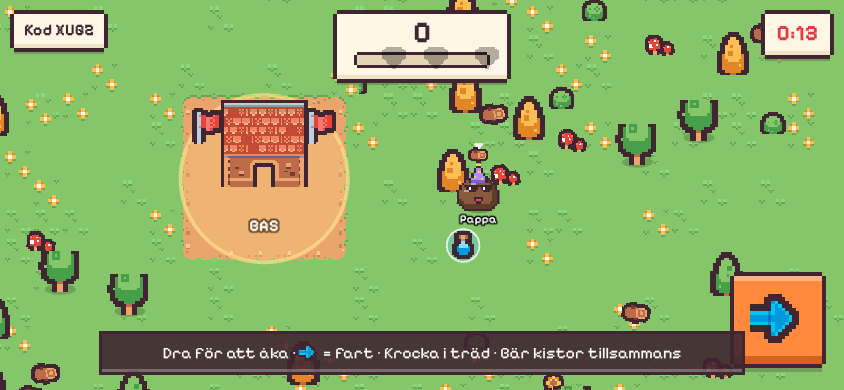
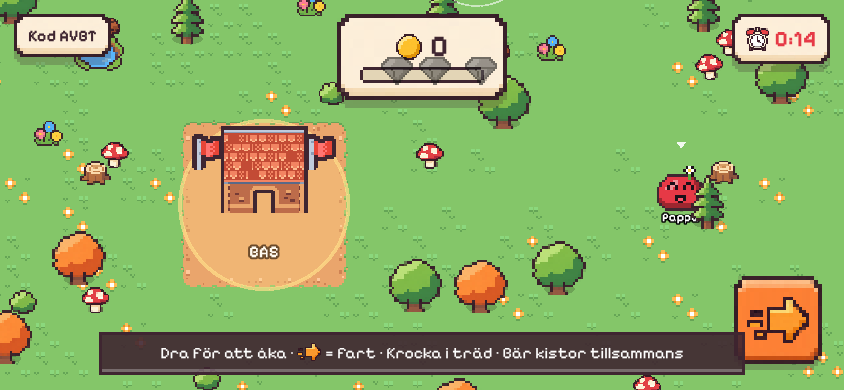
feat(blobz): ChatGPT map props (trees, rocks, boulders, ponds, decor)
Claude-Session: https://claude.ai/code/session_019PjhQycgBwz4yCtCSZuQS4

diff --git a/blobz/src/game.ts b/blobz/src/game.ts
@@ -18,10 +18,12 @@ export interface Session {
 
 const T = 32; // rendered tile size (16px tiles at 2x)
 const ITEM_ICON: Record<ItemKind, string> = { wood: 'ic-log', shroom: 'ic-mushroom', coin: 'ic-coin' };
-const TREE_FRAMES = [16, 28, 27];
+// Obstacles (sim kinds 0-4) and decor from ChatGPT order 30 (public/art/props)
+const OBSTACLE_ART: [string, number][] = [['pr-tree-green', 2.8], ['pr-tree-orange', 2.8], ['pr-tree-pine', 2.8], ['pr-rock', 2.6], ['pr-boulder', 2.4]];
+const PROPS = ['tree-green', 'tree-orange', 'tree-pine', 'rock', 'boulder', 'bush', 'flowers', 'stump', 'pond', 'fence', 'sign', 'plate', 'plate-down', 'gate', 'gate-open', 'gate-post'];
 const BLOB_SCALE = 2.9; // 18x24 pixel blob grid
 // decorations from Tiny Farm (sheet 'farm') and Tiny Town ('town')
-const DECOR: [string, number][] = [['farm', 39], ['farm', 83], ['farm', 78], ['town', 5], ['town', 2], ['farm', 39]];
+const DECOR: [string, number][] = [['pr-bush', 2], ['pr-flowers', 2], ['pr-stump', 2], ['pr-flowers', 2], ['pr-bush', 2]];
 
 interface BlobGfx {
   shadow: Phaser.GameObjects.Ellipse;
@@ -83,6 +85,7 @@ export class GameScene extends Phaser.Scene {
 
   preload() {
     for (const n of ['log', 'mushroom', 'coin', 'chest', 'boot', 'magnet']) this.load.image('ic-' + n, `art/icons/${n}.png`);
+    for (const n of PROPS) this.load.image('pr-' + n, `art/props/${n}.png`);
     const sheet = (key: string, dir: string) => this.load.spritesheet(key, `assets/${dir}/tilemap_packed.png`, { frameWidth: 16, frameHeight: 16 });
     sheet('town', 'kenney-tiny-town');
     sheet('dungeon', 'kenney-tiny-dungeon');
@@ -137,16 +140,23 @@ export class GameScene extends Phaser.Scene {
     // trees (same layout as the host sim, from the shared seed)
     for (const t of makeTrees(this.s.seed)) {
       this.add.ellipse(t.x, t.y + 6, 34, 12, 0x000000, 0.18).setDepth(-500);
-      this.add.image(t.x, t.y + 8, this.tex('town', TREE_FRAMES[t.kind])).setScale(3).setOrigin(0.5, 0.85).setDepth(t.y);
+      const [key, sc] = OBSTACLE_ART[t.kind] ?? OBSTACLE_ART[0];
+      this.add.image(t.x, t.y + 10, key).setScale(sc).setOrigin(0.5, t.kind < 3 ? 0.95 : 0.8).setDepth(t.y);
     }
 
     // flat decorations (no collision), from the same seed on every phone
     const trees = makeTrees(this.s.seed);
     for (let i = 0; i < 46; i++) {
       const x = 30 + r() * (WORLD_W - 60), y = 30 + r() * (WORLD_H - 60);
-      const [key, f] = DECOR[Math.floor(r() * DECOR.length)];
-      if (Math.hypot(x - BASE.x, y - BASE.y) < BASE.r + 30 || trees.some((t) => Math.hypot(t.x - x, t.y - y) < 40)) continue;
-      this.add.image(x, y, this.tex(key, f)).setScale(2).setDepth(-600);
+      const [key, sc] = DECOR[Math.floor(r() * DECOR.length)];
+      if (Math.hypot(x - BASE.x, y - BASE.y) < BASE.r + 30 || trees.some((t) => Math.hypot(t.x - x, t.y - y) < 46)) continue;
+      this.add.image(x, y, key).setScale(sc).setDepth(-600);
+    }
+
+    for (let i = 0, placed = 0; i < 40 && placed < 2; i++) {
+      const x = 120 + r() * (WORLD_W - 240), y = 120 + r() * (WORLD_H - 240);
+      if (Math.hypot(x - BASE.x, y - BASE.y) < BASE.r + 120 || trees.some((t) => Math.hypot(t.x - x, t.y - y) < 80)) continue;
+      this.add.image(x, y, 'pr-pond').setScale(2.4).setDepth(-650); placed++;
     }
 
     this.trailG = this.add.graphics().setDepth(-400);

diff --git a/blobz/src/sim.ts b/blobz/src/sim.ts
@@ -16,6 +16,9 @@ const BOOST_SPEED = 340;
 const DASH_IMPULSE = 360;
 const DASH_COOLDOWN = 1.1;
 const TREE_R = 15;
+/** Obstacle kinds: 0-2 trees (green, orange, pine) drop wood when bumped; 3 rock; 4 boulder. */
+export const OBSTACLE_R = [15, 15, 12, 12, 24];
+const isTree = (kind: number) => kind < 3;
 const GEM_R = 22;
 const GEM_GRAB_R = 62;
 const PICKUP_R = 26;
@@ -90,7 +93,8 @@ export function makeTrees(seed: number): Tree[] {
     const y = 70 + r() * (WORLD_H - 130);
     if (nearBase(x, y, 90)) continue;
     if (trees.some((t) => Math.hypot(t.x - x, t.y - y) < 70)) continue;
-    trees.push({ x, y, kind: Math.floor(r() * 3), cd: 0 });
+    const roll = r();
+    trees.push({ x, y, kind: roll < 0.78 ? Math.floor(r() * 3) : roll < 0.9 ? 3 : 4, cd: 0 });
   }
   return trees;
 }
@@ -190,14 +194,14 @@ export function step(s: State, inputs: Map<string, Input>, dt: number) {
     for (const p of s.players) {
       const dx = p.x - t.x, dy = p.y - t.y;
       const d = Math.hypot(dx, dy);
-      const min = BLOB_R + TREE_R;
+      const min = BLOB_R + (OBSTACLE_R[t.kind] ?? TREE_R);
       if (d < min && d > 0.001) {
         const nx = dx / d, ny = dy / d;
         const vn = p.vx * nx + p.vy * ny;
         p.x = t.x + nx * min; p.y = t.y + ny * min;
         if (vn < 0) {
           p.vx -= 1.6 * vn * nx; p.vy -= 1.6 * vn * ny;
-          if (-vn > 170 && t.cd <= 0) {
+          if (-vn > 170 && t.cd <= 0 && isTree(t.kind)) {
             t.cd = 3;
             const a = Math.atan2(ny, nx) + (Math.random() - 0.5) * 2;
             spawnItem(s, { x: t.x + Math.cos(a) * 42, y: t.y + Math.sin(a) * 42 }, 'wood');

diff --git a/blobz/scripts/slice_sheet.py b/blobz/scripts/slice_sheet.py
@@ -6,6 +6,7 @@ usage: slice_sheet.py SHEET OUT_DIR name1 name2 ... [--native] [--grid=CxR] [--p
             thickness) so it can be upscaled crisply with image-rendering: pixelated.
   --grid=CxR  the sheet is an even C x R grid: one sprite per cell (keeps multi-part icons whole).
   --px=N    size of one art pixel in the sheet (overrides the per-sprite estimate).
+  --merge=N merge objects whose boxes are closer than N px (multi-part objects like an open gate).
 Objects are found as connected areas of non-transparent pixels (8-neighbour); tiny specks are dropped.
 """
 import sys
@@ -75,7 +76,20 @@ def main():
                 if bb: boxes.append((cell[0] + bb[0], cell[1] + bb[1], cell[0] + bb[2], cell[1] + bb[3]))
     else:
         alpha = im.getchannel('A').tobytes()
-        boxes = reading_order(components(alpha, w, h))
+        boxes = components(alpha, w, h, min_area=150)
+        gap = int(opts.get('merge', 0))
+        merged = True
+        while gap and merged:
+            merged = False
+            for i in range(len(boxes)):
+                for j in range(i + 1, len(boxes)):
+                    a, b = boxes[i], boxes[j]
+                    dx = max(0, max(a[0], b[0]) - min(a[2], b[2])); dy = max(0, max(a[1], b[1]) - min(a[3], b[3]))
+                    if dx <= gap and dy <= gap:
+                        boxes[i] = (min(a[0], b[0]), min(a[1], b[1]), max(a[2], b[2]), max(a[3], b[3]))
+                        del boxes[j]; merged = True; break
+                if merged: break
+        boxes = reading_order(boxes)
     print(f'found {len(boxes)} objects, {len(names)} names')
     for i, b in enumerate(boxes):
         name = names[i] if i < len(names) else f'extra-{i + 1}'

diff --git a/blobz/public/assets/LICENSES.md b/blobz/public/assets/LICENSES.md
@@ -21,6 +21,7 @@ UI icons (diamonds, dash arrow, pixel letters) are cut from these packs; no emoj
 | `art/victory.png` | Generated with ChatGPT image generation, supplied by Stefan | End screen background |
 | `art/ui/*.png` | ChatGPT order 10 (UI kit), sliced with `scripts/slice_sheet.py --native`; source sheet `docs/art-src-ui-kit.png` | Buttons, panels, tabs, input, thumbstick |
 | `art/icons/*.png` | ChatGPT order 20 (icons), sliced with `scripts/slice_sheet.py --grid=4x4 --px=13`; source `docs/art-src-icons.png` | HUD, buttons, items, chest, power-ups |
+| `art/props/*.png` | ChatGPT order 30 (map props), sliced with `scripts/slice_sheet.py --px=13 --merge=40`; source `docs/art-src-props.png` | Trees, rocks, decor, plates, gate, sign, pond |
 | `icon-192.png`, `icon-512.png` | Generated with ChatGPT image generation, supplied by Stefan | App icon (resized) |
 
 Blobz are drawn in code (`src/blob.ts`) as pixel SVG/canvas: color, eyes, mouth and hat are separate parts.

diff --git a/blobz/PROGRESS.md b/blobz/PROGRESS.md
@@ -73,3 +73,10 @@
 - Stefan's phone (Chrome "auto dark mode for web contents") inverted the UI and blob faces. Added
   `<meta name="color-scheme" content="only light">` + `color-scheme: only light` on :root.
 - Not reproducible in headless Chromium (forced dark is ignored there); verify on the phone.
+
+## 2026-11-14 - Version on start screen + map props (order 30)
+- Start card shows `v<package> · <git sha> · <build time Stockholm>` (vite `define`), to confirm the phone runs the latest build.
+- Order 30 sliced into `public/art/props/` (slicer gained `--merge=N` for multi-part objects).
+  World obstacles are now ChatGPT trees (green/orange/pine, drop wood when bumped) plus rocks and boulders
+  (solid, no wood; sim `OBSTACLE_R` per kind). Decor: bushes, flowers, stumps, 2 ponds. Plates, gate, sign
+  and fence are installed for the co-op milestone.

diff --git a/blobz/docs/ART_ORDERS.md b/blobz/docs/ART_ORDERS.md
@@ -9,7 +9,7 @@ order left-to-right, top-to-bottom), names the files and wires them into the gam
 |---|---|---|---|
 | 10 | done | `art/ui/*.png` | Buttons, panels, tabs, input frame, thumbstick (wired as CSS 9-slice) |
 | 20 | done | `art/icons/*.png` | HUD, menu buttons, items, chest, power-ups |
-| 30 | ordered | `art/props.png` | Bigger trees, rocks, bushes, pressure plates, gate |
+| 30 | done | `art/props/*.png` | Trees, rocks, boulders, bush, flowers, stump, ponds in game; plates, gate, sign, fence ready for milestone 30 |
 | 40 | ordered | `art/totems.png` | Base totems for team power-ups (milestone 40) |
 | 50 | ordered | `art/enemies.png` | Slime waves that attack the base (milestone 50) |
 | 60 | ordered | `art/lobby.png` | Lobby background |
